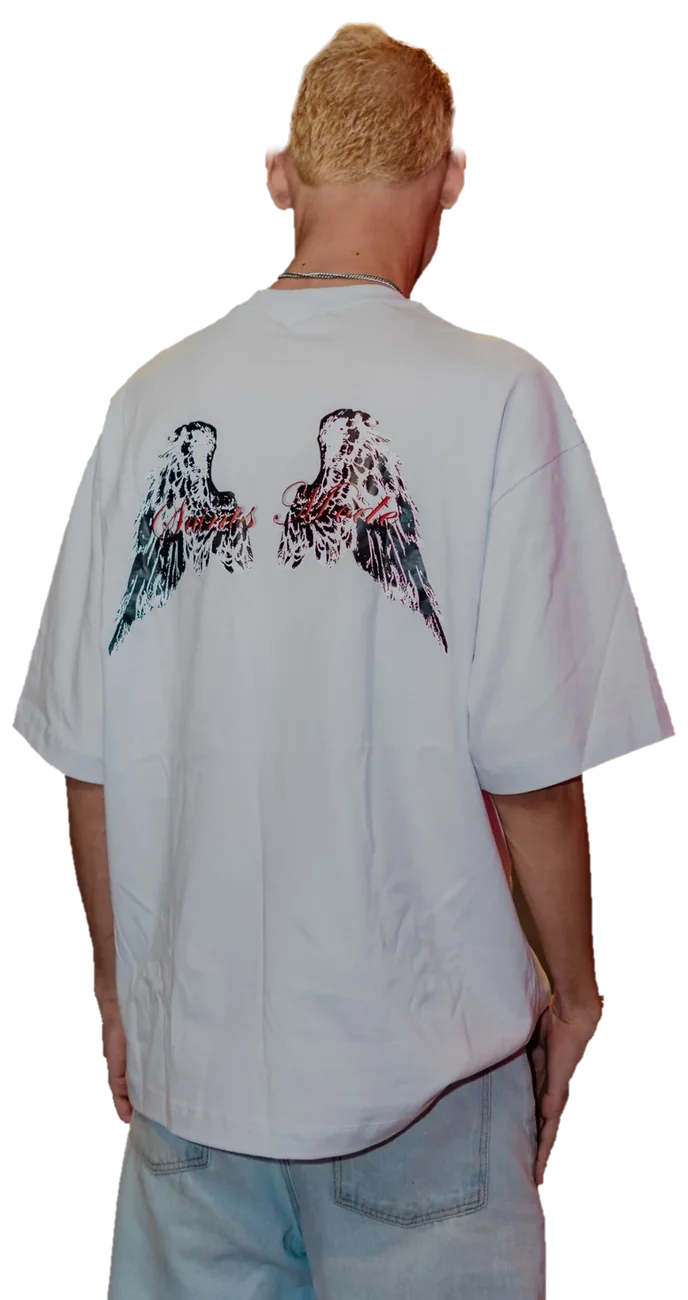
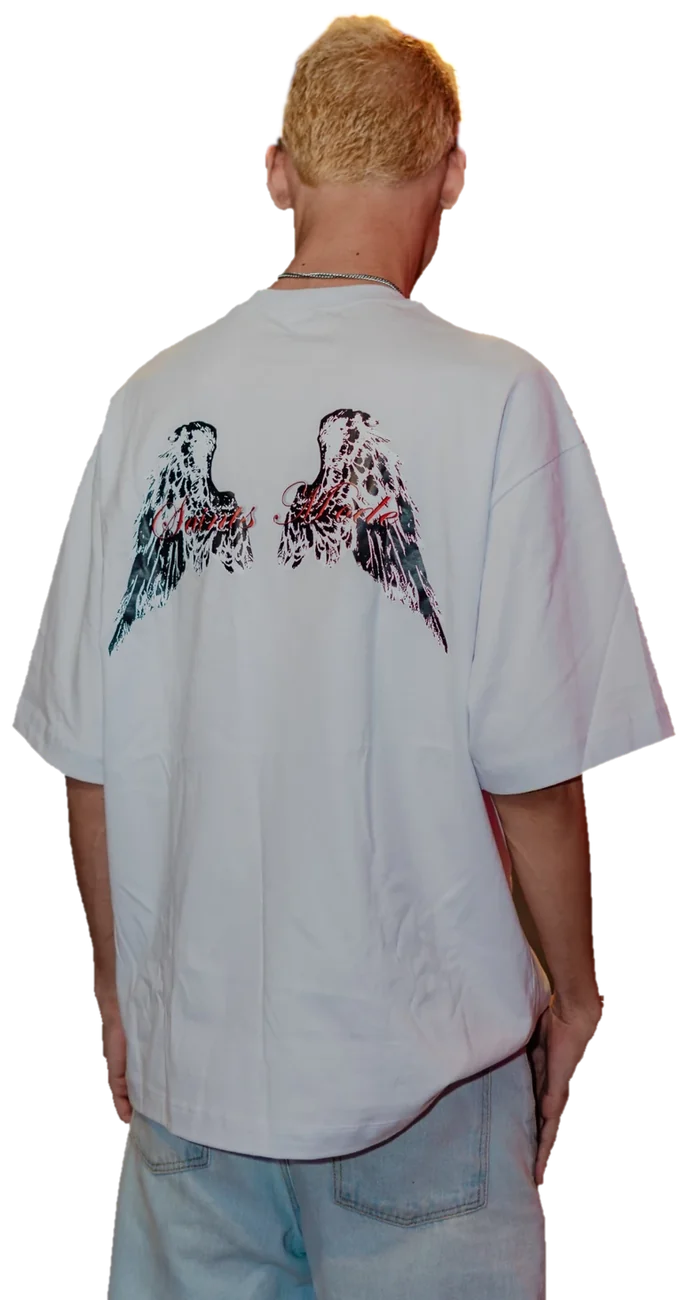
Modelo rubio: pelo difuminado sin picos y cabeza completa de espalda
Claude-Session: https://claude.ai/code/session_013ynmKTYERfCmJQKP2pb1Nx

Changed region(s): [[0.3663, 0.0, 0.6715, 0.1231]]

diff --git a/tools/recorte/rubios.py b/tools/recorte/rubios.py
@@ -1,6 +1,6 @@
 import numpy as np, cv2, sys
 from PIL import Image
-def run(name, off, hair_box, arm_boxes, erode_px=15, arm_fix=None, arm_poly=None, hair_matte=False):
+def run(name, off, hair_box, arm_boxes, erode_px=5, hair_sigma=2.0, hair_gamma=1.0, arm_fix=None, arm_poly=None, hair_matte=False):
     src = Image.open(f'src/{name}.png').convert('RGB'); src.thumbnail((1800, 1800), Image.LANCZOS)
     a = np.asarray(Image.open(f'cut3/{name}.webp').convert('RGBA')).astype(np.float32)
     H, W = a.shape[:2]; ox, oy = off
@@ -41,31 +41,32 @@ def run(name, off, hair_box, arm_boxes, erode_px=15, arm_fix=None, arm_poly=None
         pm = cv2.GaussianBlur(pm.astype(np.float32) / 255, (3, 3), 0)
         z = np.zeros((H, W), bool); z[y0:y1, x0:x1] = True
         al = np.where(z, np.maximum(pm, np.where(np.arange(W)[None, :] < arm_poly[2], al, 0)), al)
-    # pelo: borde metido y difuminado (sale el halo de la pared)
+    # pelo: misma forma del recorte, borde apenas metido y difuminado; el color del borde
+    # se limpia restando el color de la pared que se mezcla (descontaminación)
     x0, y0, x1, y1 = hair_box
     zone = np.zeros((H, W), np.float32); zone[y0:y1, x0:x1] = 1; zone = cv2.GaussianBlur(zone, (0, 0), 6)
-    core = cv2.erode((al > 0.5).astype(np.uint8), np.ones((erode_px, erode_px), np.uint8)).astype(np.float32)
-    core = cv2.GaussianBlur(core, (0, 0), 2.4)
-    hair = np.minimum(al, np.clip(core * 1.2, 0, 1))
-    if hair_matte:
-        # filtro guiado: el borde sigue los mechones de la foto
-        I = cv2.cvtColor(O.astype(np.uint8), cv2.COLOR_RGB2GRAY).astype(np.float32) / 255
-        p = hair
-        r = 6; e = 2e-3
-        mI = cv2.boxFilter(I, -1, (r, r)); mp = cv2.boxFilter(p, -1, (r, r))
-        cIp = cv2.boxFilter(I * p, -1, (r, r)) - mI * mp; vI = cv2.boxFilter(I * I, -1, (r, r)) - mI * mI
-        A = cIp / (vI + e); Bb = mp - A * mI
-        q = cv2.boxFilter(A, -1, (r, r)) * I + cv2.boxFilter(Bb, -1, (r, r))
-        q = np.clip((q - 0.15) / 0.7, 0, 1)
-        hair = np.minimum(q, np.clip(cv2.dilate(hair, np.ones((5, 5), np.uint8)), 0, 1))
+    hard = (al > 0.5).astype(np.uint8)
+    hard = cv2.morphologyEx(hard, cv2.MORPH_OPEN, np.ones((7, 7), np.uint8))  # quita los picos sueltos
+    core = cv2.erode(hard, np.ones((erode_px, erode_px), np.uint8)).astype(np.float32)
+    hair = np.clip(cv2.GaussianBlur(core, (0, 0), hair_sigma) * 1.1, 0, 1)
+    hair = np.minimum(hair, al + 0.15) ** hair_gamma  # gamma > 1: la orilla clarita se vuelve más transparente
+    # color de la pared alrededor
+    outside = (al < 0.05).astype(np.float32)
+    k = 41
+    bg = cv2.GaussianBlur(O * outside[..., None], (k, k), 0) / np.maximum(cv2.GaussianBlur(outside, (k, k), 0), 1e-3)[..., None]
+    am = np.clip(hair, 0.25, 1)[..., None]
+    F = np.clip((O - (1 - am) * bg) / am, 0, 255)
+    edge = ((hair > 0.01) & (hair < 0.98)).astype(np.float32)
+    edge = cv2.GaussianBlur(cv2.dilate(edge, np.ones((5, 5), np.uint8)), (5, 5), 0)[..., None] * zone[..., None]
+    a[..., :3] = O * (1 - edge) + F * edge
     al = al * (1 - zone) + hair * zone
     a[..., 3] = np.clip(al, 0, 1) * 255
     im = Image.fromarray(np.clip(a, 0, 255).astype(np.uint8), 'RGBA')
     im.save(f'cut6_{name}.webp', 'WEBP', quality=90, alpha_quality=95, method=6)
     return im
-f = run('blanco-chico-frente', (211, 272), (330, 0, 570, 150), [(585, 895, 690, 1350), (80, 880, 230, 1300)], erode_px=17,
-        arm_poly=((585, 880, 706, 1360), [(593, 884), (632, 884), (633, 950), (634, 1000), (636, 1050), (641, 1100), (646, 1150), (655, 1200), (657, 1250), (652, 1282), (642, 1302), (622, 1322), (600, 1325), (592, 1310), (597, 1250), (596, 1180), (593, 1050)], 593))
-b = run('blanco-chico-espalda', (184, 335), (285, 0, 535, 175), [(590, 905, 700, 1310), (80, 880, 160, 1300)], erode_px=21, hair_matte=True)
+f = run('blanco-chico-frente', (211, 272), (330, 0, 570, 150), [(585, 895, 690, 1350), (80, 880, 230, 1300)], 
+        arm_poly=((585, 880, 706, 1360), [(593, 884), (632, 884), (633, 950), (634, 1000), (636, 1050), (641, 1100), (646, 1150), (655, 1200), (657, 1250), (652, 1282), (642, 1302), (622, 1322), (600, 1325), (592, 1310), (597, 1250), (596, 1180), (593, 1050)], 593), erode_px=11, hair_sigma=3.0, hair_gamma=1.8)
+b = run('blanco-chico-espalda', (184, 335), (285, 0, 535, 175), [(590, 905, 700, 1310), (80, 880, 160, 1300)], erode_px=5, hair_sigma=1.8)
 ims = []
 for im in (f, b):
     for bg in [(28, 28, 30, 255), (255, 63, 164, 255)]:
